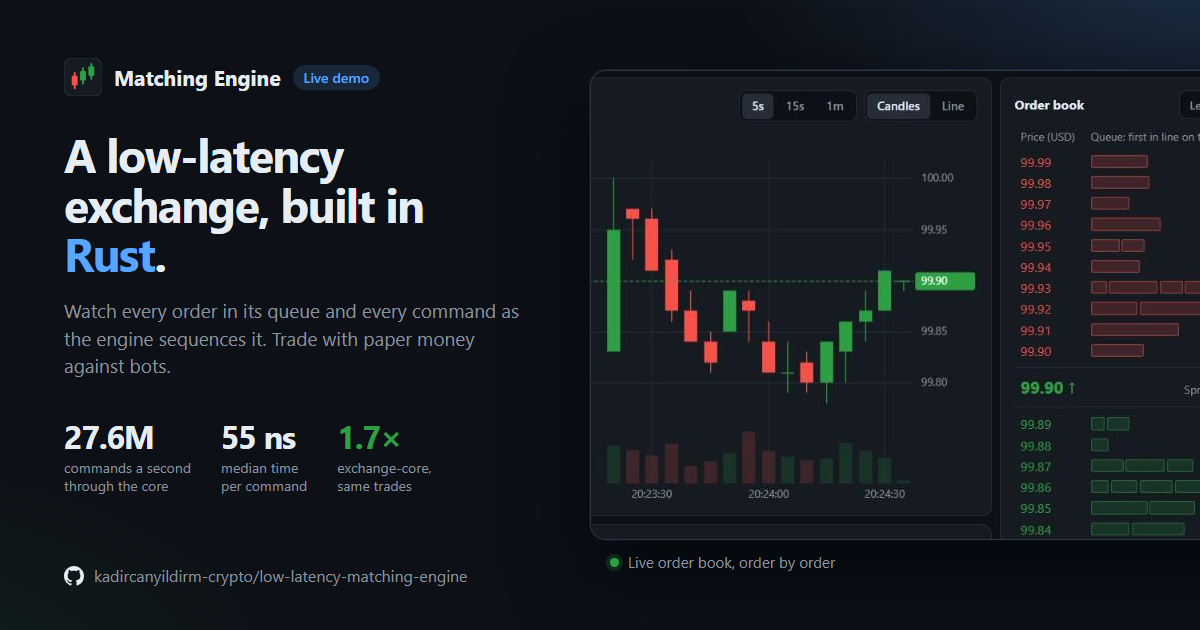
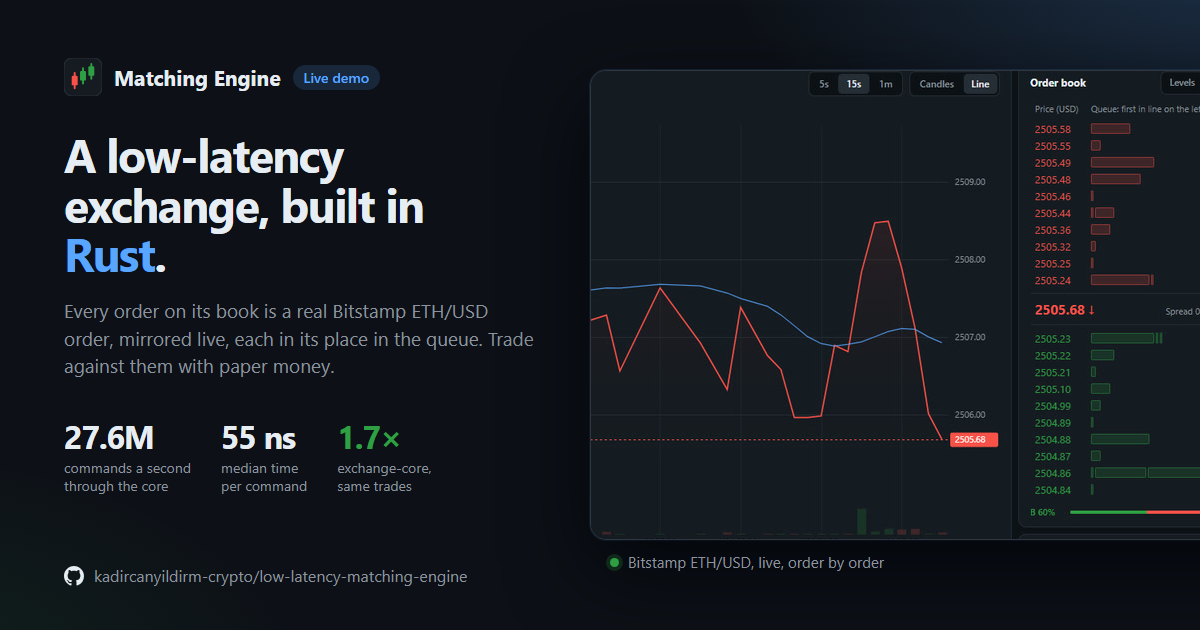
Open the README on the live market
The README opened on a link preview of the bots' market, with the demo's
status as waiting for a server. It now opens on a short recording of
the demo trading against Bitstamp's ETH/USD book, then five lines on
what sets the engine apart, each with where to check it, and the
comparison with Bitstamp's own API. The link preview shows the
mirrored book, and the roadmap and status say what is built and what
comes next: public hosting needs only a server and a domain.

Claude-Session: https://claude.ai/code/session_01MZYZ7LjgD2eaEYLXm6BH7b

diff --git a/README.md b/README.md
@@ -3,18 +3,27 @@
 [![CI](https://github.com/kadircanyildirm-crypto/low-latency-matching-engine/actions/workflows/ci.yml/badge.svg)](https://github.com/kadircanyildirm-crypto/low-latency-matching-engine/actions/workflows/ci.yml)
 [![License: MIT OR Apache-2.0](https://img.shields.io/badge/license-MIT%20OR%20Apache--2.0-blue.svg)](#license)
 
-![The live demo: candles, and an order book that shows every order in its queue](crates/gateway/web/og.png)
-
 A low-latency exchange matching engine in Rust, modelled on the LMAX architecture:
-single-threaded deterministic matching, event sourcing, and a pipeline of pinned stages.
+single-threaded deterministic matching, a write-ahead journal with crash recovery, a
+pipeline of pinned threads, and a gateway that serves programs over a binary protocol and
+browsers over WebSocket. Its demo trades, with paper money, against a live mirror of
+Bitstamp's ETH/USD order book.
 
-**Status:** Phases 1 to 4 of 9 are complete: the matching core, the journal and crash
-recovery around it, a TCP gateway in front of them, and a pipeline of threads with market
-data. Phase 5, a public web demo with paper trading against a live mirror of a real
-market, is built and packaged,
-and waits for a server to run on. The next phases lead to a public
-web demo with paper trading, then to outside users: see [docs/ROADMAP.md](docs/ROADMAP.md). The reasoning behind every design
-decision is in [docs/DESIGN.md](docs/DESIGN.md).
+![The demo: Bitstamp's ETH/USD book order by order, a paper order waiting in its queue, and the engine room](docs/media/demo.gif)
+
+- **Fast.** 27.6M commands a second and 55 ns median per command through the matching core, on one laptop core; 1.7× exchange-core on the same order flow, with the same trades ([how it was measured](docs/COMPARISON.md)). No heap allocation while matching, checked by a counting allocator.
+- **Durable.** Nothing is acknowledged before its journal record is synced. A killed process loses nothing it acknowledged, a power failure nothing that was synced, and recovery rebuilds the exact state, checked against the book's digest.
+- **Real market data.** The demo places every order resting near the top of Bitstamp's ETH/USD book on its own book, at the same price, with the same size, in the same place in its queue, and sends Bitstamp's trades again as they happen. Read against Bitstamp's own API, all 20 price levels matched in price, quantity and number of orders ([the comparison](docs/media/bitstamp-match.png)); both books change several times a second, so a read can also catch the mirror a quarter of a second behind.
+- **Verified, not just tested.** A differential reference model and a specification checker, seven fuzz targets, Kani proofs, Miri and loom for the one piece of `unsafe` code, crash tests that cut the power at every write, and mutation testing that fails on any fault the tests miss.
+- **Ready for the open internet.** Every reply to a connection is held to an output limit, connections and new accounts are limited per address, WebSockets from other sites are refused, paper orders stay near the market's price, and the containers have no privileges they do not need.
+
+**Status:** Phases 1 to 5 of the [roadmap](docs/ROADMAP.md) are built: the matching core,
+the journal and crash recovery around it, the TCP gateway, the pipeline with market data,
+and the web demo, packaged as an image with a compose file and Caddy for HTTPS
+([deploy/README.md](deploy/README.md)). It runs locally with three commands (see
+[Phase 5](#phase-5-the-web-demo)). Next come measurements on isolated Linux cores, several
+instruments and outside users, and hot-standby replication. The reasoning behind every
+design decision is in [docs/DESIGN.md](docs/DESIGN.md).
 
 ## Phase 1: the order book
 
@@ -288,7 +297,7 @@ cargo run --release -p gateway --bin loadgen -- --accounts crates/gateway/accoun
 | A strict binary protocol | Fixed-length, little-endian messages with a 4-byte header. Anything that is not exactly what the encoder writes (unknown types, wrong lengths, codes out of range, non-zero padding) logs the connection out. |
 | Sessions | A login with an account and its token first, one session per account, heartbeats to quiet clients, logout of silent ones. |
 | Exchange-assigned ids | An order's id is the sequence number of the command that places it: unique, increasing, and recovered with the journal. The client's own reference comes back in every report. |
-| Pre-trade risk | A limit on each account's open orders and pending stops, counting those not yet applied, and a token bucket on each session's message rate, both checked before anything is journaled. |
+| Pre-trade risk | A limit on each account's open orders and pending stops, counting those not yet applied, and a token bucket on each account's message rate, both checked before anything is journaled. |
 | Cancel-on-disconnect | A connection that closes, sends garbage, goes idle, or reads its reports too slowly has its account's orders cancelled. Stopping the gateway leaves them on the book, as a crash would, and a restart attributes them to their accounts again. |
 | Group commit | One thread, one `mio` event loop: the commands of a round of reads share one journal sync, and reports go out only after it, so under `SyncPolicy::Always` no client hears of an order the journal could lose. |
 
@@ -366,13 +375,14 @@ mirror.
 | Property | How |
 |---|---|
 | Browsers are sessions like any other | A second listener speaks HTTP for the page and upgrades to WebSocket; the session then has the same login, risk limits, reports and market data as a binary one. HTTP, WebSocket frames and JSON are decoded strictly and fuzzed. |
-| Paper money | An account can start with cash and shares. Before an order is accepted, the gateway checks that the account can pay for it in full and holds that: cash for a buy, shares for a sell. Trades settle at their own price and give back what was held for less. A property test lets accounts trade only with each other: money and shares are never made or lost, and each account holds exactly what its orders on the book need. |
+| Paper money | An account can start with cash and shares. Before an order is accepted, the gateway checks that the account can pay for it in full and holds that: cash for a buy, shares for a sell. Trades settle at their own price and give back what was held for less. A property test lets accounts trade only with each other: money and shares are never made or lost, and each account holds exactly what its orders on the book need. Paper orders must be priced within 10% of the market's price, so two accounts cannot move money between them at made-up prices. |
 | The market survives restarts | The exchange's own state, paper money above all, is checkpointed and rebuilt on start from the checkpoint and the journal after it, which the engine replays to it; it must then agree with the recovered book. Crash tests cut the power at random points; an end-to-end test stops and restarts the gateway under a visitor's account. |
 | A real market | `mirror`, in a workspace of its own so the engine's never builds a TLS stack, reads Bitstamp's public WebSocket: the best hundred orders of each side with their ids, and every trade. Every quarter of a second it brings its orders on the exchange in line with the venue's at the best 20 prices: it cancels the orders the venue no longer has, shrinks those that traded (keeping their place in the queue), and places new ones in the venue's order. Each trade is sent again from a second account, as an immediate-or-cancel order for the same quantity at the same price. Prices and quantities are read exactly, as cents and millionths of an ether. If the venue goes quiet, the mirror withdraws its orders rather than show a stale book. A test runs it against a real exchange over real sockets. The page credits the source. |
 | Or a synthetic one | Bots: market makers quoting six to ten levels a side around a wandering fair price, each in its own style, and moving their quotes only once the price has moved; passive traders leaving small orders behind the best prices; an iceberg; stops beyond the market; a whale that takes several levels at once; noise traders crossing the spread, trend followers. |
 | The page | A trading screen with no dependencies and no build step: a candlestick chart that opens on the last hour of trades, with volume, a moving average, a crosshair and the visitor's orders and fills on it, and a depth chart; the book by level or order by order, every order a block in its queue, the visitor's own lit up; the tape; limit and marketable orders with what they cost; the paper account with its profit; open orders with their place in the queue, and fills. Served under a content security policy that allows nothing from elsewhere. |
 | The engine room | Below the screen, the engine at work: what the server recovered when it started and how long that took, with the book's state digest; every command it sequences as it happens, with what came of it; a heatmap of the server's turn times second by second, with p50 and p99; where a turn's time goes, between writing the journal, syncing it and matching; throughput; and a leaderboard of the paper accounts. Above the screen, the benchmark's figures, with a link to how they were measured. |
-| Deployment | An image, a compose file with Caddy in front for HTTPS, and a guide in [deploy/README.md](deploy/README.md). CI builds the image on every push. |
+| Open to the internet | Every reply to a connection, the server's own included, counts against a 4 MiB limit, past which it is dropped and not read. An address may hold 32 WebSockets and create 5 accounts, then one more every ten minutes; browsers never take the sessions kept for the mirror; WebSockets from pages of other sites are refused, and nothing may frame the page. Behind the proxy, a browser's address is the one the proxy names. |
+| Deployment | An image, a compose file with Caddy in front for HTTPS, and a guide in [deploy/README.md](deploy/README.md). The containers' logs rotate, their memory is capped, and the exchange and the mirror run on read-only file systems with no capabilities. CI builds the image on every push. |
 
 Details in [DESIGN.md §17](docs/DESIGN.md#17-the-web-demo).
 

diff --git a/docs/ROADMAP.md b/docs/ROADMAP.md
@@ -10,7 +10,7 @@ documented are worth more than five half-finished ones.
 | 2 | Event sourcing: journal + replay | ✅ Done |
 | 3 | Binary protocol + TCP gateway | ✅ Done |
 | 4 | Pipeline: gateway → sequencer → matcher → publisher, market data | ✅ Done |
-| 5 | Public web demo: paper trading against a live mirror of a real market | 🚀 Built; waits for a server |
+| 5 | Public web demo: paper trading against a live mirror of a real market | 🚀 Built and packaged; public hosting next |
 | 6 | End-to-end measurement and optimisation on Linux | — |
 | 7 | Users: accounts, bot API and competitions, several instruments, open-source release | — |
 | 8 | Hot standby replication and failover | — |
@@ -225,10 +225,15 @@ the Capital Markets Board, SPK), customer identification and custody, and is out
   commands.
 - An image, a compose file with HTTPS in front, and a guide (`deploy/README.md`); CI builds
   the image.
+- Ready for the open internet: every reply held to a per-connection output limit,
+  connections and new accounts limited per address, sessions kept for the mirror,
+  WebSockets from other sites refused, paper orders kept near the market's price, and
+  containers with rotated logs, capped memory and no privileges they do not need.
 
 **Acceptance criteria:** the public link works; a visitor can trade against the market; the
 market keeps running across a restart of the server. The last two are met locally and in
-tests (`crates/gateway/tests/web.rs`, `tests/recovery.rs`); the first waits for a server.
+tests (`crates/gateway/tests/web.rs`, `tests/recovery.rs`); the first comes with public
+hosting, which needs only a server and a domain.
 
 ---
 
